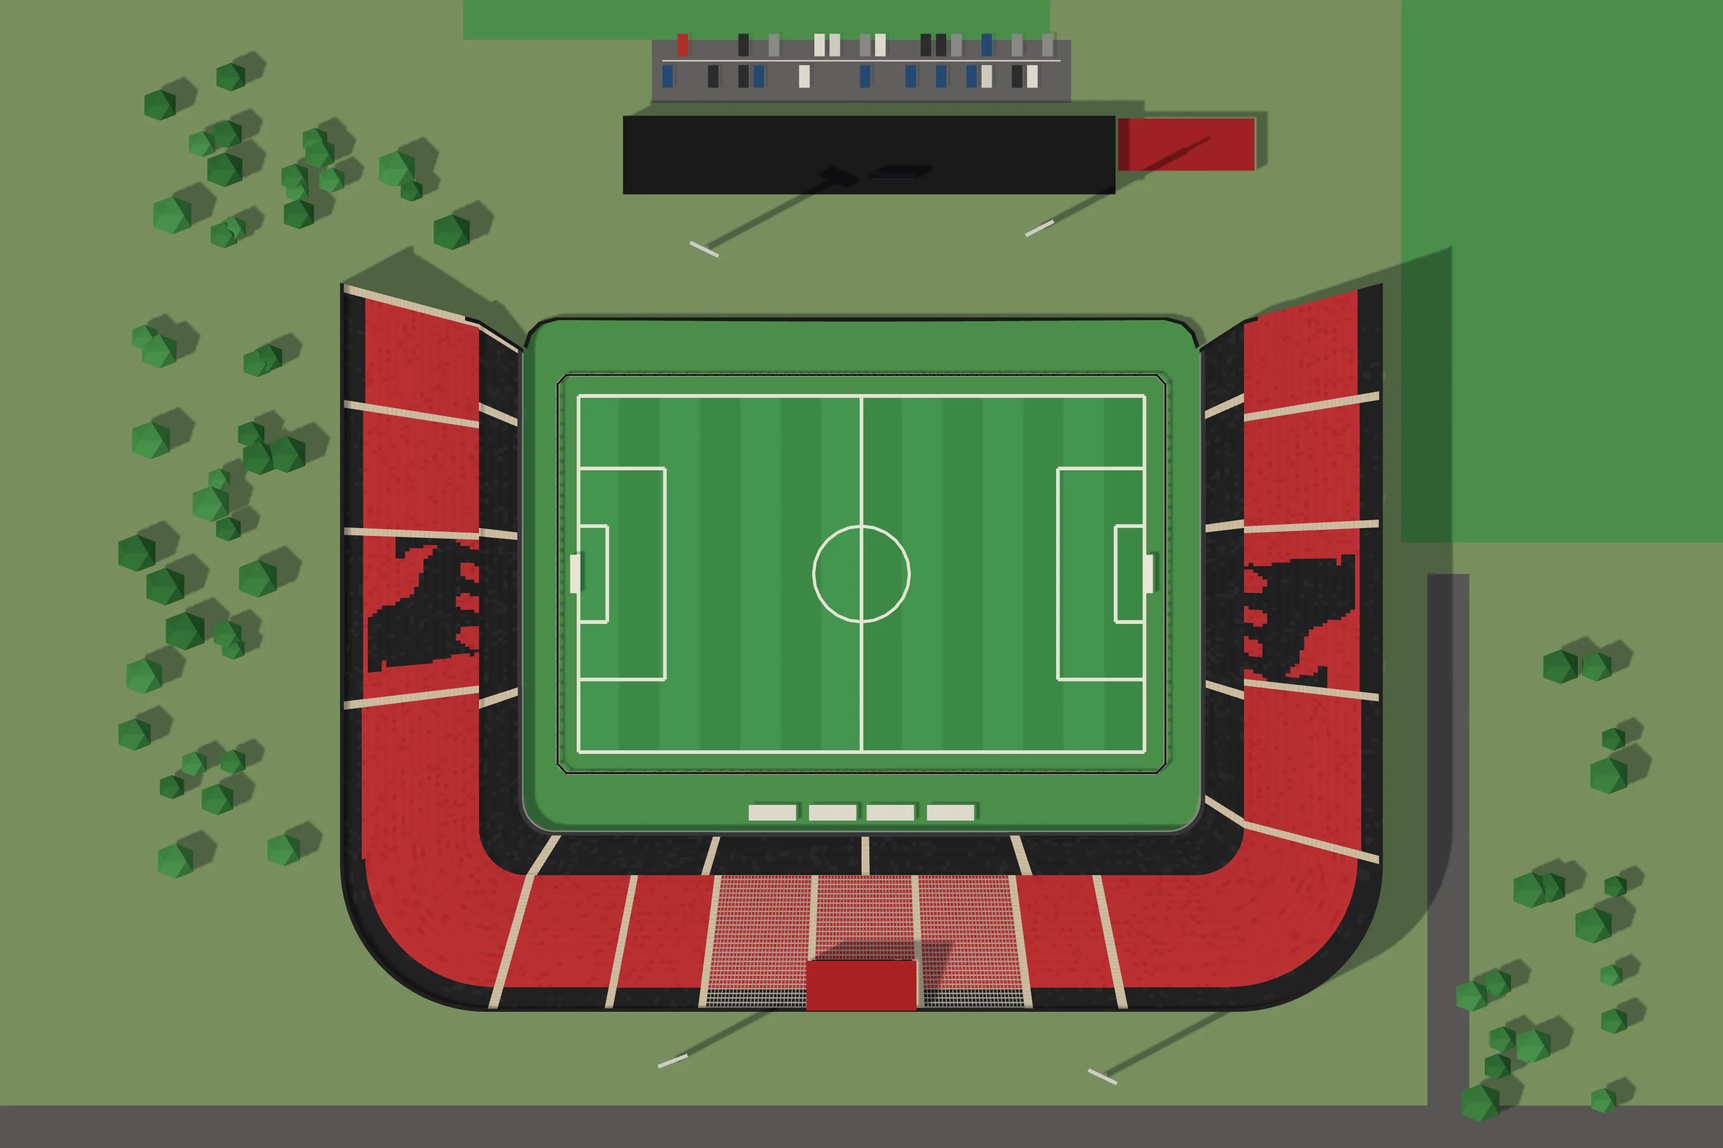
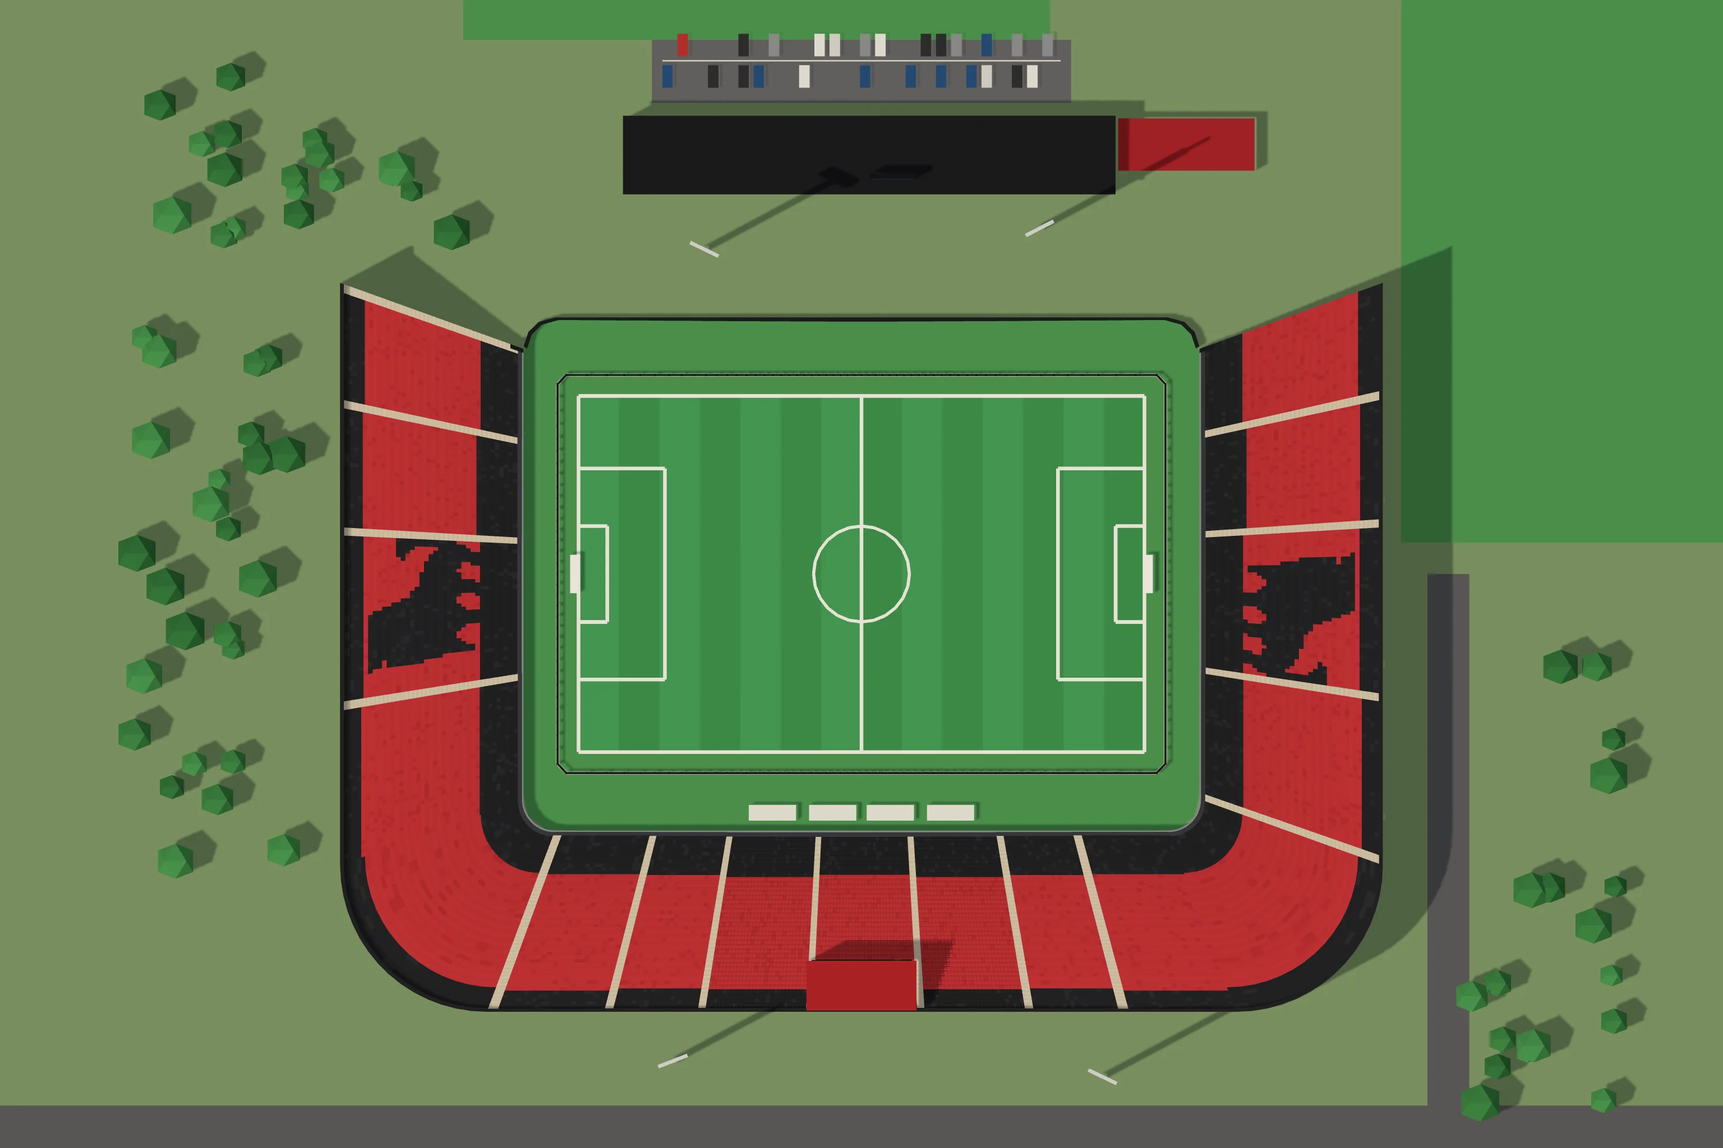
Barradão: uma arquibancada só, a listra preta é pintura
Os dois lances viram um, com as escadas contínuas do muro ao alto; a listra
preta, a faixa do alto e o leão são pintura. No gerador, pisoPintado leva a
pintura do degrau pro piso debaixo das cadeiras.

Claude-Session: https://claude.ai/code/session_019hwwMAyyP7ZAvyq6wYTetr

diff --git a/cenario3d/planta.html b/cenario3d/planta.html
@@ -289,24 +289,24 @@ button:focus-visible, input:focus-visible { outline: 2px solid var(--selecao); o
 
 <script type="module">
 import * as THREE from 'https://cdn.jsdelivr.net/npm/three@0.160.0/build/three.module.min.js';
-import { planoDaCasa, montarCasa, juntarBlocos, lugarDoDecalque, placasDoLote, segmentosDoMuro, carrosDoEstacionamento, portaoDoEstacionamento } from './js/casas3d.js?v=727f0b7e73';
-import { montarModelos } from './js/modelos3d.js?v=727f0b7e73';
-import { moldeDaPeca, comTransformador } from './js/props3d.js?v=727f0b7e73';
-import { ATLAS } from './js/modelos_atlas.js?v=727f0b7e73';
-import { Construtor, sorteio } from './js/construtor3d.js?v=727f0b7e73';
-import { gerarProposta, MAPAS, MAPA_DO_PORTE, RUA, LONGE_DO_ESTADIO_M, cisaoDaPraca, VAO_CIDADES_M, PRAIA_A_MAIS } from './js/proposta.js?v=727f0b7e73';
-import { montarSede, nivelQueCabe } from './js/sede3d.js?v=727f0b7e73';
-import { onibus as onibusDetalhe, juntar as juntarDetalhe } from './js/detalhe3d.js?v=727f0b7e73';
-import { montarLoteDeVeraneio, plantaDoLote, festaNoMundo, noMundoDoLote, cenaDaFesta, detalheDaCasaDaFesta } from './js/veraneio3d.js?v=727f0b7e73';
-import { montarCaravana, cenaDaCaravana } from './js/caravana3d.js?v=727f0b7e73';
-import { montarEstacao, montarTunel, montarCarro, TREM } from './js/metro3d.js?v=727f0b7e73';
-import { montarShopping, montarDelegacia, montarPraca, montarIgreja, montarEscola, montarHospital } from './js/equip3d.js?v=727f0b7e73';
-import { montarEquipAntigo, TIPOS_ANTIGOS } from './js/equip_antigo3d.js?v=727f0b7e73';
-import { PECAS_PRAIA, montarPecaDaPraia } from './js/praia3d.js?v=727f0b7e73';
-import { ESPECIES_LP, FLORA_LP, montarArvoreLowpoly, montarAsDez, facesDaArvore, especieLowpolyDe } from './js/arvores_lowpoly.js?v=727f0b7e73';
-import { plantarMato, montarMato, LONGE_M, DENSIDADE, LADRILHO_M } from './js/mato3d.js?v=727f0b7e73';
-import { ESTADIOS_JOGO, montarEstadioJogo, glbDoEstadio, cortarEstadio, plantaDoEstadio, modeloDaLotacao, nomeDoLetreiro, nomeComAcento, marcaDoEstadio, BOCAS_DOS_PORTOES, BILHETERIAS_DA_RUA } from './js/estadios3d.js?v=727f0b7e73';
-import { PECAS_AMBULANTES, montarAmbulante } from './js/ambulantes3d.js?v=727f0b7e73';
+import { planoDaCasa, montarCasa, juntarBlocos, lugarDoDecalque, placasDoLote, segmentosDoMuro, carrosDoEstacionamento, portaoDoEstacionamento } from './js/casas3d.js?v=9c65bef5ce';
+import { montarModelos } from './js/modelos3d.js?v=9c65bef5ce';
+import { moldeDaPeca, comTransformador } from './js/props3d.js?v=9c65bef5ce';
+import { ATLAS } from './js/modelos_atlas.js?v=9c65bef5ce';
+import { Construtor, sorteio } from './js/construtor3d.js?v=9c65bef5ce';
+import { gerarProposta, MAPAS, MAPA_DO_PORTE, RUA, LONGE_DO_ESTADIO_M, cisaoDaPraca, VAO_CIDADES_M, PRAIA_A_MAIS } from './js/proposta.js?v=9c65bef5ce';
+import { montarSede, nivelQueCabe } from './js/sede3d.js?v=9c65bef5ce';
+import { onibus as onibusDetalhe, juntar as juntarDetalhe } from './js/detalhe3d.js?v=9c65bef5ce';
+import { montarLoteDeVeraneio, plantaDoLote, festaNoMundo, noMundoDoLote, cenaDaFesta, detalheDaCasaDaFesta } from './js/veraneio3d.js?v=9c65bef5ce';
+import { montarCaravana, cenaDaCaravana } from './js/caravana3d.js?v=9c65bef5ce';
+import { montarEstacao, montarTunel, montarCarro, TREM } from './js/metro3d.js?v=9c65bef5ce';
+import { montarShopping, montarDelegacia, montarPraca, montarIgreja, montarEscola, montarHospital } from './js/equip3d.js?v=9c65bef5ce';
+import { montarEquipAntigo, TIPOS_ANTIGOS } from './js/equip_antigo3d.js?v=9c65bef5ce';
+import { PECAS_PRAIA, montarPecaDaPraia } from './js/praia3d.js?v=9c65bef5ce';
+import { ESPECIES_LP, FLORA_LP, montarArvoreLowpoly, montarAsDez, facesDaArvore, especieLowpolyDe } from './js/arvores_lowpoly.js?v=9c65bef5ce';
+import { plantarMato, montarMato, LONGE_M, DENSIDADE, LADRILHO_M } from './js/mato3d.js?v=9c65bef5ce';
+import { ESTADIOS_JOGO, montarEstadioJogo, glbDoEstadio, cortarEstadio, plantaDoEstadio, modeloDaLotacao, nomeDoLetreiro, nomeComAcento, marcaDoEstadio, BOCAS_DOS_PORTOES, BILHETERIAS_DA_RUA } from './js/estadios3d.js?v=9c65bef5ce';
+import { PECAS_AMBULANTES, montarAmbulante } from './js/ambulantes3d.js?v=9c65bef5ce';
 
 const $ = id => document.getElementById(id);
 const aviso = $('aviso');
@@ -323,25 +323,25 @@ function carregarScript(src) {
 }
 window.TO = window.TO || { dados: {} };
 try {
-  await carregarScript('dados/torcidas.js?v=727f0b7e73');
-  await carregarScript('dados/times.js?v=727f0b7e73');
-  await carregarScript('dados/cena_estadio.js?v=727f0b7e73');
-  await carregarScript('dados/cidades.js?v=727f0b7e73');
-  await carregarScript('dados/estadios.js?v=727f0b7e73');
-  await carregarScript('dados/escudos.js?v=727f0b7e73');
+  await carregarScript('dados/torcidas.js?v=9c65bef5ce');
+  await carregarScript('dados/times.js?v=9c65bef5ce');
+  await carregarScript('dados/cena_estadio.js?v=9c65bef5ce');
+  await carregarScript('dados/cidades.js?v=9c65bef5ce');
+  await carregarScript('dados/estadios.js?v=9c65bef5ce');
+  await carregarScript('dados/escudos.js?v=9c65bef5ce');
   /* o manifesto das faixas de verdade (a arte do dono, 29/09/2026): a arquibancada estende a da torcida */
-  await carregarScript('dados/faixas.js?v=727f0b7e73').catch(() => {});
+  await carregarScript('dados/faixas.js?v=9c65bef5ce').catch(() => {});
   /* O DOMÍNIO DOS BAIRROS (o dono, 30/09/2026): as sedes repetidas num
      bairro saem espalhadas (nos dados, na carga) e os bares ganham o
      bairro deles — o mesmo módulo do jogo (js/mundo/dominio.js) */
-  await carregarScript('js/dominio.js?v=727f0b7e73').catch(() => {});
+  await carregarScript('js/dominio.js?v=9c65bef5ce').catch(() => {});
 } catch (e) {
   aviso.textContent = 'A planta da cidade não carregou (' + e.message + '). Recarregue a página.';
   throw e;
 }
 /* os PNG dos escudos, embutidos (o montar.sh gera): sem o arquivo, o
    caminho vai direto pra img/escudos/ */
-await carregarScript('dados/escudos_embutidos.js?v=727f0b7e73').catch(() => {});
+await carregarScript('dados/escudos_embutidos.js?v=9c65bef5ce').catch(() => {});
 const P = TO.dados.plantaEstadio, K = P.CIDADE, M = P.METRO, CALC = K.CALC;
 /* o mapa da vez (o pequeno, o médio ou o grande, montado pra praça
    escolhida): quem monta é usarMapa, lá embaixo */

diff --git a/cenario3d/dados/estadios_cenas.js b/cenario3d/dados/estadios_cenas.js
@@ -18740,8 +18740,8 @@ window.__ESTADIOS = {
    "visitante": 3
   },
   "foto": {
-   "imagem": "img/cenas/estadio_barradao.webp?v=d65a6638",
-   "mascara": "384;384;384;384;384;384;384;384;384;384;384;384;384;384;384;384;384;384;384;384;384;384;384;384;384;384;384;384;384;384;384;384;384;384;384;384;384;384;384;384;384;384;384;384;384;384;384;384;384;384;384;384;384;78,2,224,2,78;78,3,222,3,78;77,6,218,6,77;77,7,216,7,77;77,9,212,9,77;77,10,210,10,77;77,12,206,12,77;77,13,204,13,77;76,16,200,16,76;76,17,198,17,76;76,19,194,19,76;76,20,192,20,76;76,22,188,22,76;76,23,186,23,76;76,25,182,25,76;76,26,180,26,76;76,28,176,28,76;76,29,174,29,76;76,31,13,144,13,31,76;76,33,10,146,10,33,76;76,34,8,148,8,34,76;76,36,5,150,5,36,76;76,37,4,150,4,37,76;76,39,2,150,2,39,76;76,232,76;76,232,76;76,232,76;76,232,76;76,232,76;76,232,76;76,48,136,48,76;76,48,136,48,76;76,48,136,48,76;76,48,136,48,76;76,48,136,48,76;76,48,136,48,76;76,48,136,48,76;76,48,136,48,76;76,48,136,48,76;76,48,136,48,76;76,48,136,48,76;76,48,136,48,76;76,48,136,48,76;76,48,136,48,76;76,48,136,48,76;76,48,136,48,76;76,48,136,48,76;76,48,136,48,76;77,47,136,47,77;77,47,136,47,77;77,47,136,47,77;77,47,136,47,77;77,47,136,47,77;77,47,136,47,77;77,47,136,47,77;77,47,136,47,77;77,47,136,47,77;77,47,136,47,77;77,47,136,47,77;77,47,136,47,77;77,47,136,47,77;77,47,136,47,77;77,47,136,47,77;77,47,136,47,77;77,47,136,47,77;77,47,136,47,77;77,47,136,47,77;77,47,136,47,77;77,47,136,47,77;77,47,136,47,77;77,47,136,47,77;77,47,136,47,77;77,47,136,47,77;77,47,136,47,77;77,47,136,47,77;77,47,136,47,77;77,47,136,47,77;77,47,136,47,77;77,47,136,47,77;77,47,136,47,77;77,47,136,47,77;77,47,136,47,77;77,47,136,47,77;77,47,136,47,77;77,47,136,47,77;77,47,136,47,77;77,47,136,47,77;77,47,136,47,77;77,47,136,47,77;77,47,136,47,77;77,47,136,47,77;77,47,136,47,77;77,47,136,47,77;77,47,136,47,77;77,47,136,47,77;77,47,136,47,77;77,47,136,47,77;77,47,136,47,77;77,47,136,47,77;77,47,136,47,77;77,47,136,47,77;77,47,136,47,77;76,48,136,48,76;76,48,136,48,76;76,48,136,48,76;76,48,136,48,76;76,48,136,48,76;76,48,136,48,76;76,48,136,48,76;76,48,136,48,76;76,48,136,48,76;76,48,136,48,76;76,48,136,48,76;76,48,136,48,76;76,48,136,48,76;76,48,136,48,76;76,48,136,48,76;76,48,136,48,76;76,48,136,48,76;76,48,136,48,76;76,232,76;76,232,76;76,232,76;76,232,76;76,232,76;76,232,76;76,232,76;76,232,76;76,232,76;76,232,76;76,232,76;76,232,76;76,232,76;76,232,76;76,232,76;76,232,76;76,232,76;76,232,76;76,232,76;76,232,76;76,232,76;76,232,76;77,230,77;77,230,77;77,230,77;77,230,77;77,230,77;77,230,77;78,228,78;78,228,78;78,228,78;79,226,79;79,226,79;79,226,79;80,224,80;80,224,80;81,222,81;82,220,82;82,220,82;83,218,83;84,216,84;85,214,85;85,214,85;87,210,87;88,208,88;89,206,89;90,204,90;92,200,92;94,196,94;96,192,96;99,186,99;103,178,103;384;384;384;384;384;384;384;384;384;384;384;384;384;384;384;384;384;384;384;384;384;384;384;384;384;384;384;384;384;384;384"
+   "imagem": "img/cenas/estadio_barradao.webp?v=c8ea0278",
+   "mascara": "384;384;384;384;384;384;384;384;384;384;384;384;384;384;384;384;384;384;384;384;384;384;384;384;384;384;384;384;384;384;384;384;384;384;384;384;384;384;384;384;384;384;384;384;384;384;384;384;384;384;384;384;78,1,226,1,78;78,2,224,2,78;78,4,220,4,78;77,6,218,6,77;77,8,214,8,77;77,9,212,9,77;77,11,208,11,77;77,12,206,12,77;77,14,202,14,77;76,16,200,16,76;76,18,196,18,76;76,19,194,19,76;76,21,190,21,76;76,22,188,22,76;76,24,184,24,76;76,25,182,25,76;76,27,178,27,76;76,28,176,28,76;76,30,172,30,76;76,31,13,144,13,31,76;76,33,10,146,10,33,76;76,34,8,148,8,34,76;76,36,5,150,5,36,76;76,37,4,150,4,37,76;76,39,2,150,2,39,76;76,232,76;76,232,76;76,232,76;76,232,76;76,232,76;76,232,76;76,48,136,48,76;76,48,136,48,76;76,48,136,48,76;76,48,136,48,76;76,48,136,48,76;76,48,136,48,76;76,48,136,48,76;76,48,136,48,76;76,48,136,48,76;76,48,136,48,76;76,48,136,48,76;76,48,136,48,76;76,48,136,48,76;76,48,136,48,76;76,48,136,48,76;76,48,136,48,76;76,48,136,48,76;76,48,136,48,76;77,47,136,47,77;77,47,136,47,77;77,47,136,47,77;77,47,136,47,77;77,47,136,47,77;77,47,136,47,77;77,47,136,47,77;77,47,136,47,77;77,47,136,47,77;77,47,136,47,77;77,47,136,47,77;77,47,136,47,77;77,47,136,47,77;77,47,136,47,77;77,47,136,47,77;77,47,136,47,77;77,47,136,47,77;77,47,136,47,77;77,47,136,47,77;77,47,136,47,77;77,47,136,47,77;77,47,136,47,77;77,47,136,47,77;77,47,136,47,77;77,47,136,47,77;77,47,136,47,77;77,47,136,47,77;77,47,136,47,77;77,47,136,47,77;77,47,136,47,77;77,47,136,47,77;77,47,136,47,77;77,47,136,47,77;77,47,136,47,77;77,47,136,47,77;77,47,136,47,77;77,47,136,47,77;77,47,136,47,77;77,47,136,47,77;77,47,136,47,77;77,47,136,47,77;77,47,136,47,77;77,47,136,47,77;77,47,136,47,77;77,47,136,47,77;77,47,136,47,77;77,47,136,47,77;77,47,136,47,77;77,47,136,47,77;77,47,136,47,77;77,47,136,47,77;77,47,136,47,77;77,47,136,47,77;77,47,136,47,77;76,48,136,48,76;76,48,136,48,76;76,48,136,48,76;76,48,136,48,76;76,48,136,48,76;76,48,136,48,76;76,48,136,48,76;76,48,136,48,76;76,48,136,48,76;76,48,136,48,76;76,48,136,48,76;76,48,136,48,76;76,48,136,48,76;76,48,136,48,76;76,48,136,48,76;76,48,136,48,76;76,48,136,48,76;76,48,136,48,76;76,232,76;76,232,76;76,232,76;76,232,76;76,232,76;76,232,76;76,232,76;76,232,76;76,232,76;76,232,76;76,232,76;76,232,76;76,232,76;76,232,76;76,232,76;76,232,76;76,232,76;76,232,76;76,232,76;76,232,76;76,232,76;76,232,76;77,230,77;77,230,77;77,230,77;77,230,77;77,230,77;77,230,77;78,228,78;78,228,78;78,228,78;79,226,79;79,226,79;79,226,79;80,224,80;80,224,80;81,222,81;82,220,82;82,220,82;83,218,83;84,216,84;85,214,85;85,214,85;87,210,87;88,208,88;89,206,89;90,204,90;92,200,92;94,196,94;96,192,96;99,186,99;103,178,103;384;384;384;384;384;384;384;384;384;384;384;384;384;384;384;384;384;384;384;384;384;384;384;384;384;384;384;384;384;384;384"
   },
   "cena": {
    "nome": "Barradão",

diff --git a/cenario3d/js/jogo2d.js b/cenario3d/js/jogo2d.js
@@ -17,7 +17,7 @@
    cartão da partida cai perto da hora da bola e nada do que conta o
    placar passa na frente dele.
    ========================================================= */
-import { CASCA } from './jogo_casca.js?v=727f0b7e73';
+import { CASCA } from './jogo_casca.js?v=9c65bef5ce';
 
 const carregarScript = src => new Promise((ok, erro) => {
   const s = document.createElement('script');
@@ -31,18 +31,18 @@ async function montarJogo() {
   caixa.innerHTML = CASCA;
   while (caixa.firstChild) document.body.appendChild(caixa.firstChild);
   /* os escudos, as fotos das praças e as bandeiras embutidos (o `IMG()` do jogo procura aqui antes do caminho) */
-  await carregarScript('dados/imagens_jogo.js?v=727f0b7e73').catch(() => {});
+  await carregarScript('dados/imagens_jogo.js?v=9c65bef5ce').catch(() => {});
   /* os estádios low-poly das cenas (ferramentas/estadios/assar.js): antes do jogo, que monta as cenas quando carrega */
-  await carregarScript('dados/estadios_cenas.js?v=727f0b7e73').catch(() => {});
-  await carregarScript('dados/arredores_cenas.js?v=727f0b7e73').catch(() => {});
+  await carregarScript('dados/estadios_cenas.js?v=9c65bef5ce').catch(() => {});
+  await carregarScript('dados/arredores_cenas.js?v=9c65bef5ce').catch(() => {});
   /* sem o rolo do feed: a tela entre os jogos é o portal */
   window.TO = window.TO || {};
   TO.semFeed = true;
-  await carregarScript('js/jogo.js?v=727f0b7e73');
-  await carregarScript('js/portal.js?v=727f0b7e73').catch(err => console.error('o portal não carregou:', err));
+  await carregarScript('js/jogo.js?v=9c65bef5ce');
+  await carregarScript('js/portal.js?v=9c65bef5ce').catch(err => console.error('o portal não carregou:', err));
   /* o boneco das cenas de imagem (os dois níveis afinados, em base64) */
-  if (!TO.dados.bonecoPertoGLB) await carregarScript('dados/boneco_glb.js?v=727f0b7e73').catch(() => {});
-  await import('./bonecos3_global.js?v=727f0b7e73').catch(err => console.error('o boneco das cenas não carregou:', err));
+  if (!TO.dados.bonecoPertoGLB) await carregarScript('dados/boneco_glb.js?v=9c65bef5ce').catch(() => {});
+  await import('./bonecos3_global.js?v=9c65bef5ce').catch(err => console.error('o boneco das cenas não carregou:', err));
   ligar();
 }
 

diff --git a/cenario3d/jogo.html b/cenario3d/jogo.html
@@ -9,16 +9,16 @@
 <link rel="preconnect" href="https://fonts.googleapis.com">
 <link rel="preconnect" href="https://fonts.gstatic.com" crossorigin>
 <link rel="stylesheet" href="https://fonts.googleapis.com/css2?family=Barlow+Semi+Condensed:wght@500;600;700&family=Barlow:wght@400;500;600&family=IBM+Plex+Mono:wght@400;500&display=swap">
-<link rel="stylesheet" href="css/jogo.css?v=727f0b7e73">
-<link rel="stylesheet" href="css/jogo3d.css?v=727f0b7e73">
-<link rel="stylesheet" href="css/portal.css?v=727f0b7e73">
-<link rel="stylesheet" href="css/telas3d.css?v=727f0b7e73">
+<link rel="stylesheet" href="css/jogo.css?v=9c65bef5ce">
+<link rel="stylesheet" href="css/jogo3d.css?v=9c65bef5ce">
+<link rel="stylesheet" href="css/portal.css?v=9c65bef5ce">
+<link rel="stylesheet" href="css/telas3d.css?v=9c65bef5ce">
 <style>
 [hidden] { display: none !important; }
 html, body { height: 100%; margin: 0; }
 </style>
 </head>
 <body class="jogo3d">
-<script type="module" src="js/jogo2d.js?v=727f0b7e73"></script>
+<script type="module" src="js/jogo2d.js?v=9c65bef5ce"></script>
 </body>
 </html>

diff --git a/cenario3d/js/casas3d.js b/cenario3d/js/casas3d.js
@@ -60,10 +60,10 @@
    avançam (`rec`), e o letreiro, a pixação e a falha de reboco do
    bairro vão pro plano dessa parede, não pro da divisa.
    ========================================================= */
-import { Construtor, METRO, mureta, toldo, arSplit, sorteio } from './construtor3d.js?v=727f0b7e73';
-import { ATLAS } from './modelos_atlas.js?v=727f0b7e73';
+import { Construtor, METRO, mureta, toldo, arSplit, sorteio } from './construtor3d.js?v=9c65bef5ce';
+import { ATLAS } from './modelos_atlas.js?v=9c65bef5ce';
 /* as lojas do assalto (lojas3d.js): modelos de lote como os outros */
-import { TIPOS_LOJA, REC_LOJA, placaDaLoja } from './lojas3d.js?v=727f0b7e73';
+import { TIPOS_LOJA, REC_LOJA, placaDaLoja } from './lojas3d.js?v=9c65bef5ce';
 
 /* o arquivo de cada folha, pro bairro montar o material dele */
 export const arquivoDaFolha = folha => ATLAS[folha].arquivo;

diff --git a/cenario3d/js/ambulantes3d.js b/cenario3d/js/ambulantes3d.js
@@ -27,8 +27,8 @@
    que a planta acha o lugar dela na calçada do estádio. `sol`: o meio e
    o raio da copa ([x, z, r]), que o mapa desenha de perto.
    ========================================================= */
-import { Construtor, noMundo, placasNoMundo, sorteio, esfera, unit } from './construtor3d.js?v=727f0b7e73';
-import { Lugar, barra, tubo, cilindro, bloco, pano, toro, guardaSol, cadeiraPlastica, isopor, banqueta, CORES_SOL } from './praia3d.js?v=727f0b7e73';
+import { Construtor, noMundo, placasNoMundo, sorteio, esfera, unit } from './construtor3d.js?v=9c65bef5ce';
+import { Lugar, barra, tubo, cilindro, bloco, pano, toro, guardaSol, cadeiraPlastica, isopor, banqueta, CORES_SOL } from './praia3d.js?v=9c65bef5ce';
 
 const AQUI = Lugar();
 const escolha = (rnd, lista) => lista[Math.floor(rnd() * lista.length) % lista.length];

diff --git a/cenario3d/js/praia3d.js b/cenario3d/js/praia3d.js
@@ -36,8 +36,8 @@
    cadeira e a mesa de plástico) servem também os ambulantes da porta do
    estádio (ambulantes3d.js), na mesma folha.
    ========================================================= */
-import { Construtor, METRO, lerp, sub, soma, esc, unit, pv, noMundo, placasNoMundo, sorteio, varrer, esfera } from './construtor3d.js?v=727f0b7e73';
-import { montarArvoreLowpoly } from './arvores_lowpoly.js?v=727f0b7e73';
+import { Construtor, METRO, lerp, sub, soma, esc, unit, pv, noMundo, placasNoMundo, sorteio, varrer, esfera } from './construtor3d.js?v=9c65bef5ce';
+import { montarArvoreLowpoly } from './arvores_lowpoly.js?v=9c65bef5ce';
 
 const ALTO = [0, 1, 0];
 const escolha = (rnd, lista) => lista[Math.floor(rnd() * lista.length) % lista.length];

diff --git a/cenario3d/js/modelos3d.js b/cenario3d/js/modelos3d.js
@@ -32,8 +32,8 @@
    requadro da janela, toldo, ar-condicionado. O resto é pintura.
    ========================================================= */
 import * as THREE from 'https://cdn.jsdelivr.net/npm/three@0.160.0/build/three.module.min.js';
-import { ATLAS } from './modelos_atlas.js?v=727f0b7e73';
-import { Construtor, METRO, lerp, sub, soma, esc, pv, pe, unit, recuoPoligono, mureta, toldo, arSplit } from './construtor3d.js?v=727f0b7e73';
+import { ATLAS } from './modelos_atlas.js?v=9c65bef5ce';
+import { Construtor, METRO, lerp, sub, soma, esc, pv, pe, unit, recuoPoligono, mureta, toldo, arSplit } from './construtor3d.js?v=9c65bef5ce';
 
 /* =======================================================
    1. A IGREJA MATRIZ

diff --git a/cenario3d/js/props3d.js b/cenario3d/js/props3d.js
@@ -26,8 +26,8 @@
    poste vira uma haste de longe; o resto, que é miúdo, some.
    ========================================================= */
 import * as THREE from 'https://cdn.jsdelivr.net/npm/three@0.160.0/build/three.module.min.js';
-import { ATLAS } from './modelos_atlas.js?v=727f0b7e73';
-import { Construtor, METRO, lerp } from './construtor3d.js?v=727f0b7e73';
+import { ATLAS } from './modelos_atlas.js?v=9c65bef5ce';
+import { Construtor, METRO, lerp } from './construtor3d.js?v=9c65bef5ce';
 
 /* as cores que o vértice dá pro que sai claro na folha */
 const COR_CESTO = ['#6aa33a', '#d2b53a', '#3f82ad', '#8b6a3c', '#b8452f'];

diff --git a/cenario3d/js/mato3d.js b/cenario3d/js/mato3d.js
@@ -19,8 +19,8 @@
 
    Tudo em metros; `noMundo` converte. A mesma semente dá o mesmo mato.
    ========================================================= */
-import { METRO, noMundo, sorteio } from './construtor3d.js?v=727f0b7e73';
-import { facesDaArvore, especieLowpolyDe } from './arvores_lowpoly.js?v=727f0b7e73';
+import { METRO, noMundo, sorteio } from './construtor3d.js?v=9c65bef5ce';
+import { facesDaArvore, especieLowpolyDe } from './arvores_lowpoly.js?v=9c65bef5ce';
 
 /* a área de chão de cada árvore (m²), por lugar */
 export const DENSIDADE = { mata: 70, cerrado: 200, caatinga: 150, sul: 90, praia: 120, cidade: 250 };

diff --git a/cenario3d/js/bonecos3_global.js b/cenario3d/js/bonecos3_global.js
@@ -14,7 +14,7 @@
    DOMContentLoaded: quem usa (a ponte, numa cena aberta pelo jogador)
    chega muito depois.
    ========================================================= */
-import { montar, desenharDeCima, desenharVitrine, limparDeCima, fotoDoTrofeu, fotoDaBriga, fotoDaCena, perdeu, bonecos } from './bonecos3_cena.js?v=727f0b7e73';
+import { montar, desenharDeCima, desenharVitrine, limparDeCima, fotoDoTrofeu, fotoDaBriga, fotoDaCena, perdeu, bonecos } from './bonecos3_cena.js?v=9c65bef5ce';
 
 window.TO = window.TO || {};
 TO.diaJogo = TO.diaJogo || {};

diff --git a/cenario3d/js/bonecos3_cena.js b/cenario3d/js/bonecos3_cena.js
@@ -103,7 +103,7 @@
       numa fase sorteada (quem sai junto não sai no mesmo pé).
    ========================================================= */
 import * as THREE from 'https://cdn.jsdelivr.net/npm/three@0.160.0/build/three.module.min.js';
-import { GLTFLoader, SkeletonUtils } from './GLTFLoader.js?v=727f0b7e73';
+import { GLTFLoader, SkeletonUtils } from './GLTFLoader.js?v=9c65bef5ce';
 
 /* onde o modelo mora, quando não vem embutido em base64: o detalhado
    (o do Blender) e os dois níveis afinados dele (ferramentas/afinar_boneco.mjs) */
